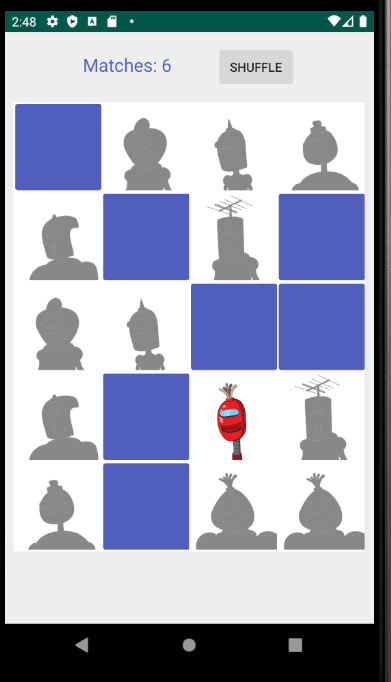
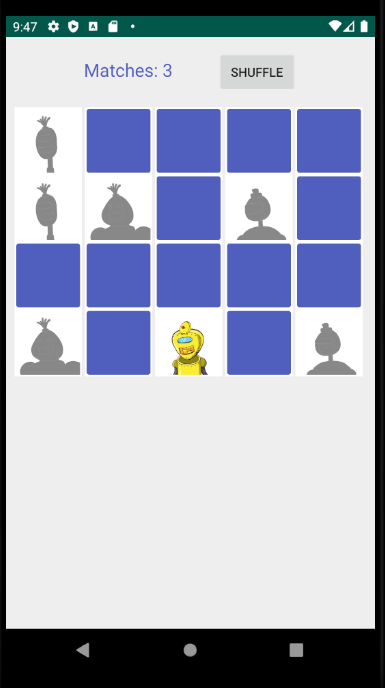
Reduce card size and fix column adjust issue.

diff --git a/app/src/main/java/com/example/memorymatchinggame/GameActivity.kt b/app/src/main/java/com/example/memorymatchinggame/GameActivity.kt
@@ -4,6 +4,7 @@ import android.app.Activity
 import android.content.Intent
 import android.content.res.Resources
 import android.os.Bundle
+import android.util.DisplayMetrics
 import androidx.appcompat.app.AppCompatActivity
 import androidx.databinding.DataBindingUtil
 import androidx.lifecycle.Observer
@@ -47,11 +48,13 @@ class GameActivity : AppCompatActivity(), CardAdapter.OnCardClickListener {
         grid = findViewById(R.id.grid)
 
         supportActionBar?.hide()
+    }
 
-        //TODO: check this
-        val width: Float = Resources.getSystem().displayMetrics.heightPixels / Resources.getSystem().displayMetrics.density
-        println("This is the $width")
-        grid.layoutManager = GridLayoutManager(this, (width / 150).toInt())
+    override fun onStart() {
+        super.onStart()
+        val widthDp: Float = Resources.getSystem().displayMetrics.widthPixels / Resources.getSystem().displayMetrics.density
+        val columns = (widthDp / 80).toInt()
+        grid.layoutManager = GridLayoutManager(this, columns)
     }
 
     fun gameCompleted(result: Int) {

diff --git a/app/src/main/java/com/example/memorymatchinggame/viewmodel/CardsViewModel.kt b/app/src/main/java/com/example/memorymatchinggame/viewmodel/CardsViewModel.kt
@@ -51,8 +51,7 @@ class CardsViewModel: ViewModel() {
                             tmp.add(tmp[i].copy())
                         }
                     } else {
-                        tmp = received.products.subList(0, 6).toMutableList()
-                        for (i in 0 until 6)
+                        for (i in 0 until 10)
                         {
                             tmp.add(tmp[i].copy())
                             tmp.add(tmp[i].copy())

diff --git a/README.md b/README.md
@@ -1,7 +1,7 @@
 # Android Mobile Challenge
 
 ## The Challenge
-The challenge was to design a memory game that retrieved images from an external JSON endpoint and loaded them into a playable format. 10 matches to win in the easy mode (2 cards per match) and 6 matches to win in the hard mode (3 cards per match).
+The challenge was to design a memory game that retrieved images from an external JSON endpoint and loaded them into a playable format. 10 matches to win in the easy mode (2 cards per match) and 10 matches to win in the hard mode (3 cards per match).
 
 See [here](https://docs.google.com/document/d/1M2VsBSZr8696HU6mO3MWveSB7p3Do9lOkMrjT5nKiEg/edit) for more details!
 
